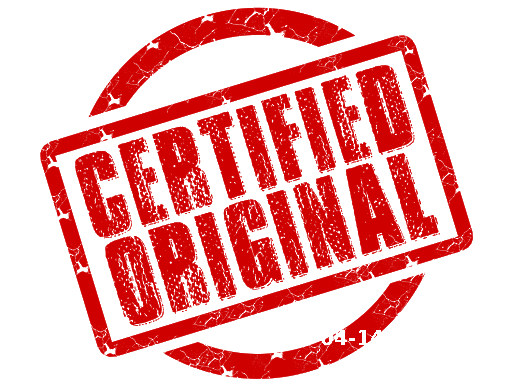
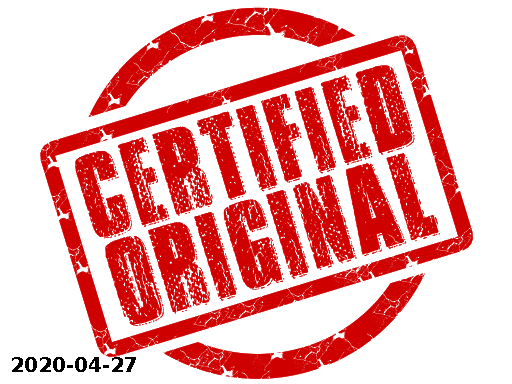
Example adding signature and date running

Changed region(s): [[0.0312, 0.9062, 0.2812, 0.9688], [0.625, 0.8438, 0.75, 0.9062]]

diff --git a/src/app/PngFileWriter2.java b/src/app/PngFileWriter2.java
@@ -1,0 +1,100 @@
+package app;
+
+import java.awt.Color;
+import java.awt.Font;
+import java.awt.Graphics2D;
+import java.awt.Transparency;
+import java.awt.image.BufferedImage;
+import java.io.File;
+import java.io.IOException;
+import java.text.SimpleDateFormat;
+import java.util.Date;
+import java.util.List;
+ 
+import javax.imageio.ImageIO;
+ 
+public class PngFileWriter2 {
+ 
+    public void append(List<String> inputFileNameList, String outputFileName, boolean isX, boolean withDate) {
+        if (inputFileNameList == null || inputFileNameList.size() == 0) {
+            return;
+        }
+ 
+        try {
+            boolean isFirstPng = true;
+            BufferedImage outputImg = null;
+            int outputImgW = 0;
+            int outputImgH = 0;
+            for (String pngFileName : inputFileNameList) {
+                if (isFirstPng) {
+                    isFirstPng = false;
+                    outputImg = ImageIO.read(new File(pngFileName));
+                    outputImgW = outputImg.getWidth();
+                    outputImgH = outputImg.getHeight();
+                } else {
+                    BufferedImage appendImg = ImageIO.read(new File(pngFileName));
+                    int appendImgW = appendImg.getWidth();
+                    int appendImgH = appendImg.getHeight();
+ 
+                    if (isX) {
+                        outputImgW = outputImgW + appendImgW;
+                        outputImgH = outputImgH > appendImgH ? outputImgH : appendImgH;
+                    } else {
+                        outputImgW = outputImgW > appendImgW ? outputImgW : appendImgW;
+                        outputImgH = outputImgH + appendImgH;
+                    }
+ 
+                    // create basic image
+                    Graphics2D g2d = outputImg.createGraphics();
+                    BufferedImage imageNew = g2d.getDeviceConfiguration().createCompatibleImage(outputImgW, outputImgH,
+                            Transparency.TRANSLUCENT);
+                    g2d.dispose();
+                    g2d = imageNew.createGraphics();
+                    
+                    int oldImgW = outputImg.getWidth();
+                    int oldImgH = outputImg.getHeight();
+                    g2d.drawImage(outputImg, 0, 0, oldImgW, oldImgH, null);
+                    if (isX) {
+                        g2d.drawImage(appendImg, oldImgW, 0, appendImgW, appendImgH, null);
+                    } else {
+                        g2d.drawImage(appendImg, 0, oldImgH, appendImgW, appendImgH, null);
+                    }
+
+                    if (withDate) {
+                        addDate(g2d, outputImgW, outputImgH);
+                    }
+                    
+                    g2d.dispose();
+                    outputImg = imageNew;
+                }
+            }
+            writeImageLocal(outputFileName, outputImg);
+        } catch (Exception e) {
+            e.printStackTrace();
+        }
+    }
+ 
+    private void writeImageLocal(String fileName, BufferedImage image) {
+        if (fileName != null && image != null) {
+            try {
+                File file = new File(fileName);
+                ImageIO.write(image, "png", file);
+            } catch (IOException e) {
+                e.printStackTrace();
+            }
+        }
+    }
+
+    private void addDate(Graphics2D g2d, int outputImgW, int outputImgH) {
+        SimpleDateFormat sdfDate = new SimpleDateFormat("yyyy-MM-dd");
+        Date now = new Date();
+
+        // set font for the text
+        g2d.setFont(new Font("Arial", Font.BOLD, 35));
+        g2d.setColor(Color.BLACK);
+        String dateText = sdfDate.format(now);
+
+        // add the text
+        g2d.drawString(dateText, (outputImgW*2)/100, (outputImgH*97)/100);
+    }
+}

diff --git a/src/app/Main.java b/src/app/Main.java
@@ -17,7 +17,8 @@ public class Main {
 
         try {
 
-            addTextToImage2();
+            joinImagesWithDate();
+            // addTextToImage2();
             // joinImages2();
 
         } catch(Exception e) {
@@ -25,35 +26,45 @@ public class Main {
         }
     }
 
+    public static void joinImagesWithDate() {
+        PngFileWriter2 writer = new PngFileWriter2();
+        List<String> inputFileNameList = new ArrayList<String>();
+        inputFileNameList.add("assets/stamp.png");
+        inputFileNameList.add("assets/sign.png");
+        writer.append(inputFileNameList, "joined3.png", false, true);
+    }
+
     public static void addTextToImage2() {
-        SimpleDateFormat sdfDate = new SimpleDateFormat("yyyy-MM-dd HH:mm:ss");
-            Date now = new Date();
+        SimpleDateFormat sdfDate = new SimpleDateFormat("yyyy-MM-dd");
+        Date now = new Date();
 
-            File origFile = new File("assets/stamp.png");
-            ImageIcon icon = new ImageIcon(origFile.getPath());
+        File origFile = new File("assets/stamp.png");
+        ImageIcon icon = new ImageIcon(origFile.getPath());
 
-            // create BufferedImage object of same width and height as of original image
-            BufferedImage bufferedImage = new BufferedImage(icon.getIconWidth(),
-                        icon.getIconHeight(), BufferedImage.TYPE_INT_ARGB);
+        // create BufferedImage object of same width and height as of original image
+        BufferedImage bufferedImage = new BufferedImage(icon.getIconWidth(),
+                    icon.getIconHeight(), BufferedImage.TYPE_INT_ARGB);
 
-            // create graphics object and add original image to it
-            Graphics graphics = bufferedImage.getGraphics();
-            graphics.drawImage(icon.getImage(), 0, 0, null);
+        // create graphics object and add original image to it
+        Graphics graphics = bufferedImage.getGraphics();
+        graphics.drawImage(icon.getImage(), 0, 0, null);
 
-            // set font for the watermark text
-            graphics.setFont(new Font("Arial", Font.BOLD, 20));
-            String watermark =  sdfDate.format(now);
+        // set font for the watermark text
+        graphics.setFont(new Font("Arial", Font.BOLD, 20));
+        graphics.setColor(Color.BLACK);
+        String watermark =  sdfDate.format(now);
 
-            // add the watermark text
-            graphics.drawString(watermark, (icon.getIconWidth()*50)/100, (icon.getIconHeight()*90)/100);
-            graphics.dispose();
+        // add the watermark text
+        // graphics.drawString(watermark, (icon.getIconWidth()*50)/100, (icon.getIconHeight()*90)/100);
+        graphics.drawString(watermark, (icon.getIconWidth()*2)/100, (icon.getIconHeight()*97)/100);
+        graphics.dispose();
 
-            File newFile = new File("test2.png");
-            try {
-                  ImageIO.write(bufferedImage, "png", newFile);
-            } catch (IOException e) {
-                  e.printStackTrace();
-            }
+        File newFile = new File("test2.png");
+        try {
+                ImageIO.write(bufferedImage, "png", newFile);
+        } catch (IOException e) {
+                e.printStackTrace();
+        }
     }
 
     public static void addTextToImage() throws Exception {
